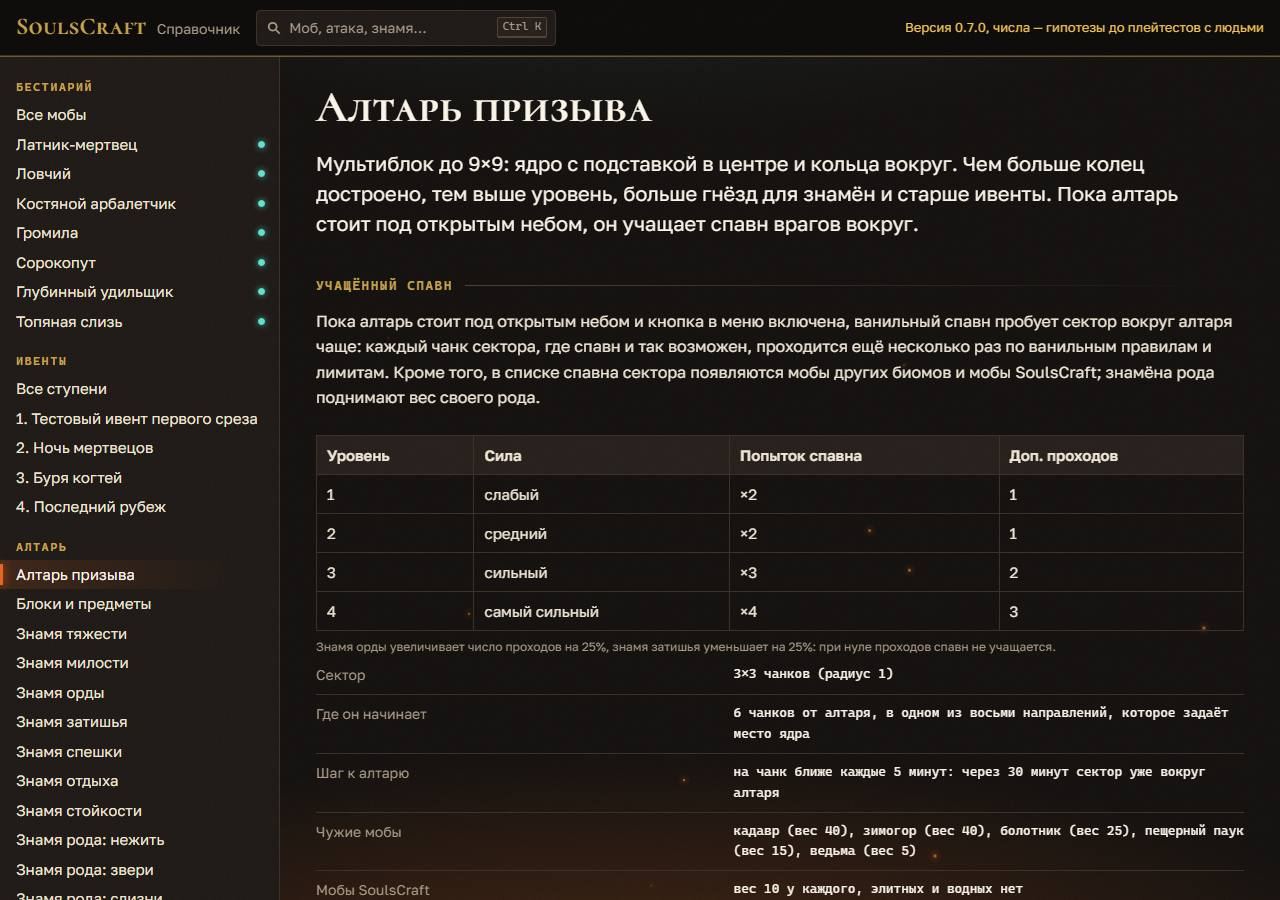
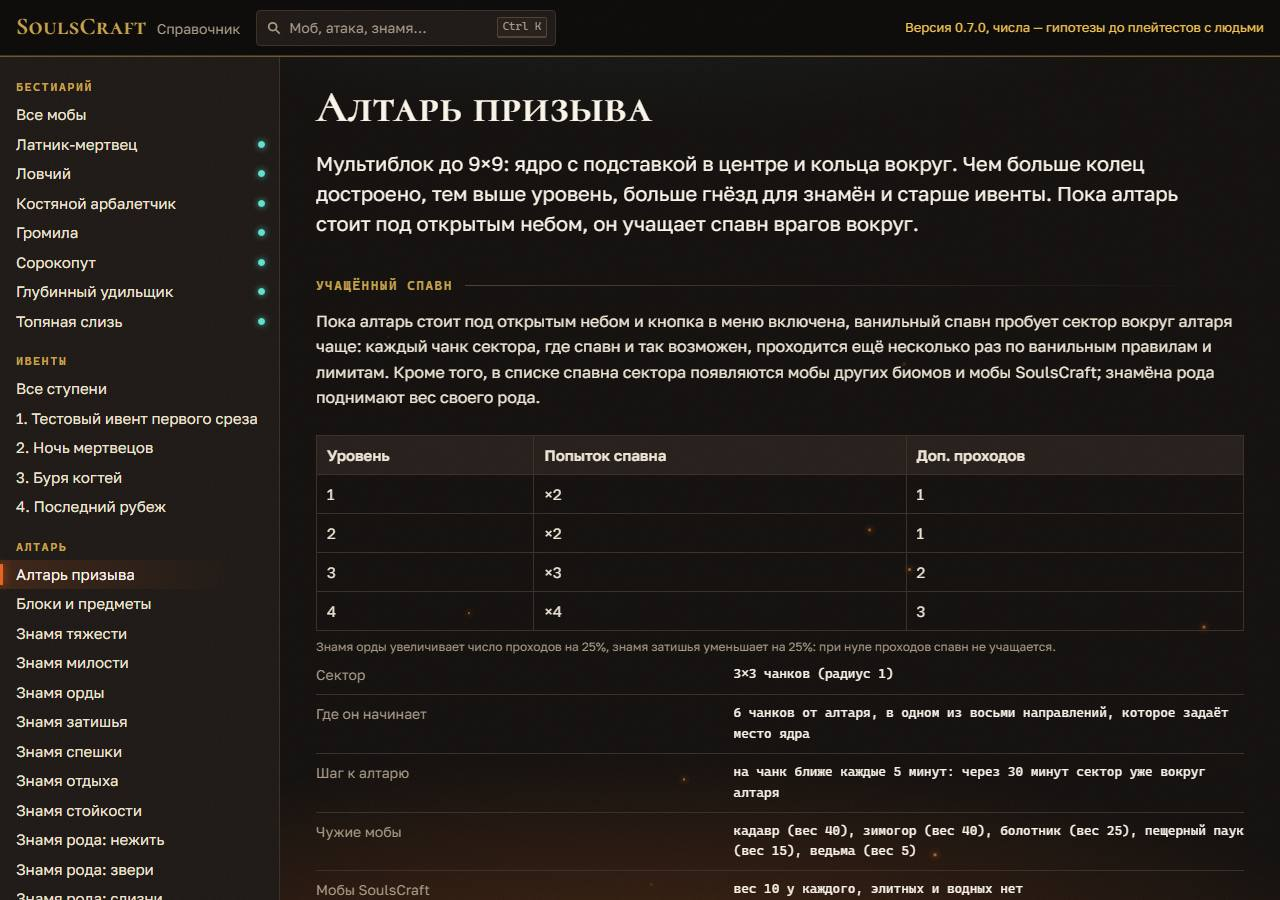
docs: handbook fix round 1 (no invented lines in vanilla, book, recipes, boost table)

diff --git a/docs/showcase/js/vanilla.js b/docs/showcase/js/vanilla.js
@@ -73,7 +73,7 @@
       el('p', {}, 'Каждый ванильный моб из групп растёт с силой игрока P (от 0 до 1) по тем же правилам, что и свои мобы: здоровье × (1 + 0,9 · P), урон × (1 + 0,6 · P), броня + 6 · P, скорость × (1 + 0,1 · P), а интервал решений мозга 20 − 10 · P тиков. Для зомби: здоровье ' + z.health + ' → ' + f(z.health * 1.9) + ', урон ' + z.damage + ' → ' + f(z.damage * 1.6) +
         ', броня ' + z.armor + ' → ' + f(z.armor + 6) + '. Книга охотника на ступени «Знаток» показывает этот рост для каждого типа.'),
       el('p', {}, 'Мобы из спавнеров (в ' + SC.DATA.vanilla.spawner_radius_blocks + ' блоках от спавнера) растут по силе P, но приёмов не получают. Мобы волн ивента — по правилам ивента: ванильный моб волны, не зомби, берёт числа, приёмы и роль своей группы (скелет — стрелок).'),
-      el('p', { class: 'small' }, 'Приёмы по тикам — гипотеза Г6 и Г13, рост — Г2, числа группы — гипотезы среза. У скелета приёма с замахом нет: его поведение — дистанция и пауза в числах группы.'),
+      el('p', { class: 'small' }, 'Приёмы по тикам — гипотеза Г6 и Г13, рост — Г2, числа группы — гипотезы среза. У скелета приёма с замахом нет, у него правила дистанции и паузы (числа группы).'),
     ];
   }
 
@@ -82,7 +82,7 @@
     ui.buildNav('vanilla');
     const main = ui.main, groups = SC.DATA.vanilla.groups;
     main.append(el('h1', {}, 'Ванильные мобы'));
-    main.append(el('p', { class: 'sum' }, 'Все изначально агрессивные ванильные мобы, кроме крипера, получают один-два приёма с читаемым замахом. Моб остаётся со своей моделью и целями: мозг SoulsCraft берёт его только на время приёма. ' + groups.length + ' групп.'));
+    main.append(el('p', { class: 'sum' }, groups.length + ' групп получают приёмы или правила; остальные не меняются (список ниже). Моб остаётся со своей моделью и целями: мозг SoulsCraft берёт его только на время приёма.'));
     main.append(el('h2', {}, 'Рост от силы P'), ...growth());
     main.append(el('h2', {}, 'Группы'), el('p', { class: 'small' }, groups.map((g, i) => [i ? ' · ' : '', el('a', { href: '#vanilla', onclick: (e) => {
       e.preventDefault();

diff --git a/docs/showcase/js/altar.js b/docs/showcase/js/altar.js
@@ -157,7 +157,7 @@
     const rows = SC.ALTAR.levels.map((lv) => {
       sockets += lv.sockets.length;
       return el('tr', {}, el('td', {}, lv.level), el('td', {}, lv.size + '×' + lv.size), el('td', {}, ringNeeds(lv.level)),
-        el('td', {}, sockets), el('td', {}, lv.spawn_boost), el('td', {}, lv.unlocks));
+        el('td', {}, sockets), el('td', {}, '×' + (1 + SC.ALTAR.spawn_boost.extra_passes[lv.level - 1]) + ' попыток'), el('td', {}, lv.unlocks));
     });
     return el('div', { class: 'wide' }, el('table', { class: 'sc-moves' }, el('thead', {}, head), el('tbody', {}, rows)),
       el('p', { class: 'small sc-cap' }, 'Гнёзда стоят на клетках кольца вместо плит (предложение): уровень 2 — запад и восток, 3 — север и юг, 4 — четыре клетки «вертушкой». Число гнёзд — на весь алтарь этого уровня.'));
@@ -556,8 +556,8 @@
   // data/altar.json spawn_boost (hypotheses of iteration 3): passes by level, the sector, the drift.
   function boostSection() {
     const b = SC.ALTAR.spawn_boost, side = 2 * b.sector_radius_chunks + 1;
-    const head = el('tr', {}, ['Уровень', 'Сила', 'Попыток спавна', 'Доп. проходов'].map((h) => el('th', {}, h)));
-    const rows = SC.ALTAR.levels.map((lv, i) => el('tr', {}, el('td', {}, lv.level), el('td', {}, lv.spawn_boost), el('td', {}, '×' + (1 + b.extra_passes[i])), el('td', {}, b.extra_passes[i])));
+    const head = el('tr', {}, ['Уровень', 'Попыток спавна', 'Доп. проходов'].map((h) => el('th', {}, h)));
+    const rows = SC.ALTAR.levels.map((lv, i) => el('tr', {}, el('td', {}, lv.level), el('td', {}, '×' + (1 + b.extra_passes[i])), el('td', {}, b.extra_passes[i])));
     return [el('h2', {}, 'Учащённый спавн'),
       el('p', {}, 'Пока алтарь стоит под открытым небом и кнопка в меню включена, ванильный спавн пробует сектор вокруг алтаря чаще: каждый чанк сектора, где спавн и так возможен, проходится ещё несколько раз по ванильным правилам и лимитам. Кроме того, в списке спавна сектора появляются мобы других биомов и мобы SoulsCraft; знамёна рода поднимают вес своего рода.'),
       el('div', { class: 'wide' }, el('table', { class: 'sc-moves' }, el('thead', {}, head), el('tbody', {}, rows),

diff --git a/docs/showcase/js/recipes.js b/docs/showcase/js/recipes.js
@@ -106,7 +106,7 @@
       ['Нужен для', uses + ' рецептов (блоки алтаря, знамёна, горны) и починки клинка и молота на наковальне'],
     ];
     return [el('h2', {}, 'Осколок души'),
-      el('div', { class: 'sc-craftrow' }, icon('soulscraft:soul_shard', 64), el('p', {}, 'Валюта алтаря: из них собирают блоки, знамёна и горны. Падает с мобов SoulsCraft, из сундуков и за победу в ивентах. Шесть осколков первой ступени хватает на две колонны и жаровню.')),
+      el('div', { class: 'sc-craftrow' }, icon('soulscraft:soul_shard', 64), el('p', {}, 'Валюта алтаря: из них собирают блоки, знамёна и горны. Падает с мобов SoulsCraft, из сундуков и за победу в ивентах.')),
       el('table', { class: 'stats' }, el('tbody', {}, rows.map(([k, v]) => el('tr', {}, el('td', {}, k), el('td', {}, v)))))];
   }
 
@@ -116,8 +116,8 @@
     const attr = (it, type) => (it.attributes.find((a) => a.type === type) || {}).amount;
     const rows = [];
     for (const [n, kind, special] of [
-      ['revenant_blade', 'меч', '+2 к броне, пока в главной руке: клинок для боя со щитом'],
-      ['brute_maul', 'топор', '+1 к отбрасыванию, как у сокрушающего удара громилы; топор сбивает щит'],
+      ['revenant_blade', 'меч', '+2 к броне, пока в главной руке'],
+      ['brute_maul', 'топор', '+1 к отбрасыванию; топор сбивает щит'],
       ['abyss_heart', 'талисман', '+4 к здоровью (два сердца), пока лежит во второй руке'],
     ]) {
       const it = E().items[n], tr = SC.TROPHY_DATA.tiers.find((t) => 'soulscraft:' + n === t.item);

diff --git a/docs/showcase/js/book.js b/docs/showcase/js/book.js
@@ -128,8 +128,9 @@
       if (m.stats) lines.push(['text', 'Здоровье ' + nm(m.stats.health) + ' · урон ' + nm(m.stats.damage) + ' · броня ' + nm(m.stats.armor)]);
       else {
         const rows = vanillaRows(e, false);
-        if (!rows.length) lines.push(['dim', 'Числа ванильные: книга берёт их у движка.']);
+        if (!rows.length) lines.push(['dim', 'Числа ванильные.']);
         for (const r of rows) lines.push(['text', r]);
+        if (rows.length && rows.length < e.keys.length) lines.push(['dim', 'Макет показывает числа только части типов, остальные книга берёт у движка.']);
       }
       if (m.attacks.length) lines.push(['text', 'Атаки: ' + m.attacks.map((a) => a.name).join(', ')]);
     }
@@ -148,9 +149,7 @@
       if (m.stats) lines.push(['head', 'Рост по силе P'], ['text', 'От P = 0 до P = 1: ' + growLine(scaled(m.stats, 0), scaled(m.stats, 1))]);
       else {
         const rows = vanillaRows(e, true);
-        lines.push(['head', 'Рост по силе P']);
-        if (rows.length) lines.push(['dim', 'От P = 0 до P = 1:'], ...rows.map((r) => ['text', r]));
-        else lines.push(['dim', 'Числа типов — из движка.']);
+        if (rows.length) lines.push(['head', 'Рост по силе P'], ['dim', 'От P = 0 до P = 1:'], ...rows.map((r) => ['text', r]));
       }
       const ev = eventLinks(e);
       if (ev.length) lines.push(['head', 'Ивенты'], ...ev.map((t) => ['text', t]));
